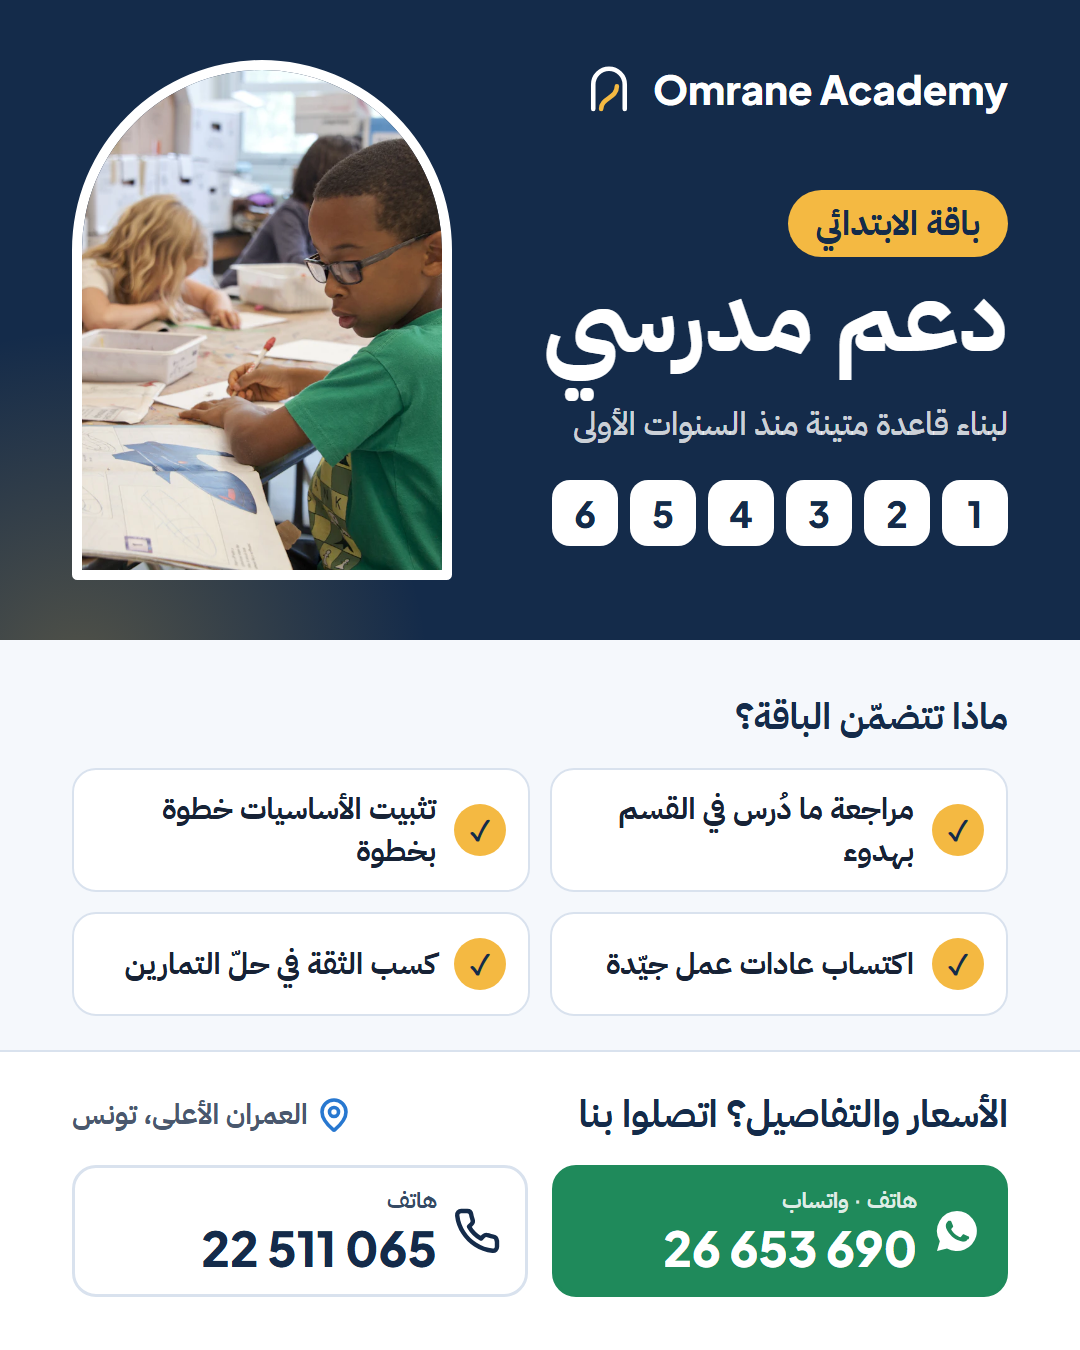
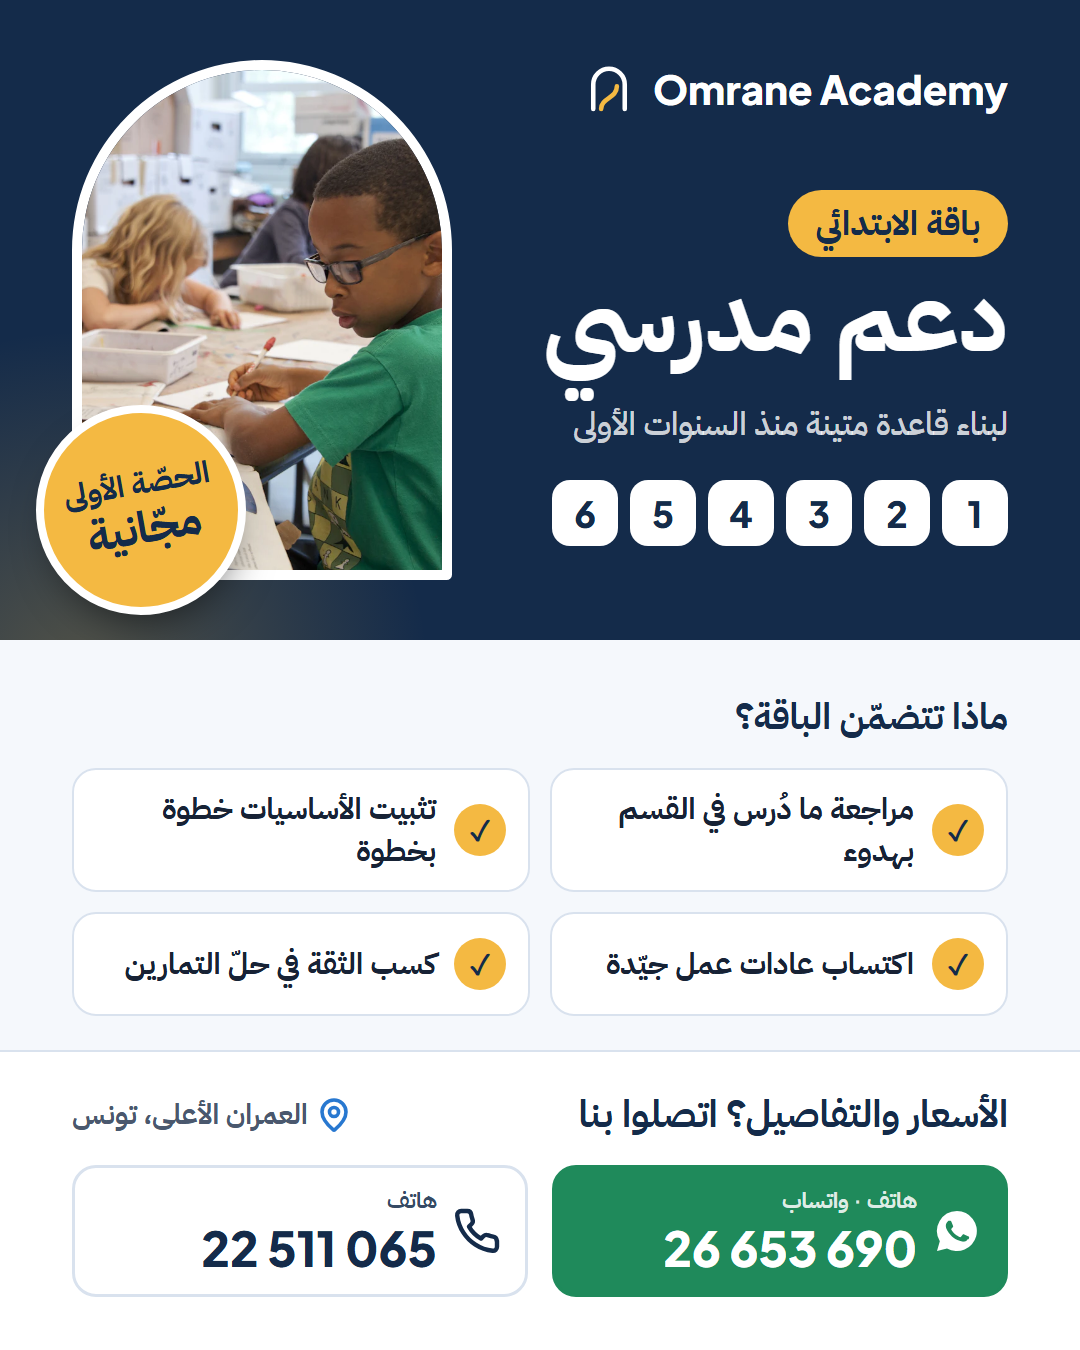
Pack ads: add the free first session and the 4-subjects offer
- "First session free" badge on every pack image and a dedicated offer image
- "4 subjects, the 4th free" image for primaire and collège
- Captions updated with both offers

Changed region(s): [[0.0306, 0.28, 0.2444, 0.4667]]

diff --git a/marketing/packs-ar.html b/marketing/packs-ar.html
@@ -1,7 +1,8 @@
 <!doctype html>
 <!--
   Publicités Facebook « packs » (1080 × 1350 px, 4:5), en arabe.
-  Une image par ancre : #primaire, #college, #info (informatique pour lycéens), #tous (récapitulatif).
+  Une image par ancre : #primaire, #college, #info (informatique pour lycéens), #tous (récapitulatif),
+  #matieres (4 matières, la 4e gratuite), #offre (première séance gratuite — offre confirmée par l'utilisateur le 2026-11-11).
   Export : Chrome headless --window-size=1080,1350 --screenshot "packs-ar.html#primaire" …
   Pas de prix : ils ne sont pas encore fixés → « اتصلوا بنا للأسعار ». Ne rien inventer
   (nombre de séances, matières, taille des groupes) tant que ce n'est pas confirmé.
@@ -71,6 +72,31 @@
       .row.p em { background: var(--gold); color: var(--navy); }
       .row.c em { background: var(--blue); color: #fff; }
       .row.i em { background: var(--green); color: #fff; }
+
+      /* Badge « première séance gratuite » */
+      .free { position: absolute; top: 405px; left: 36px; z-index: 2; width: 210px; height: 210px; border-radius: 50%; display: grid; place-content: center; text-align: center; background: var(--gold); color: var(--navy); border: 8px solid #fff; box-shadow: 0 20px 40px -16px rgb(0 0 0 / 0.55); transform: rotate(-10deg); }
+      .free b { display: block; font-size: 30px; line-height: 1.2; font-weight: 700; }
+      .free span { display: block; font-size: 44px; line-height: 1.2; font-weight: 800; }
+      #tous .free { top: 40px; left: 72px; width: 190px; height: 190px; }
+      #tous .free b { font-size: 27px; }
+      #tous .free span { font-size: 40px; }
+
+      /* Image dédiée à l'offre */
+      .offer .top { height: 1050px; text-align: center; }
+      .offer .gift { position: absolute; top: 190px; left: 50%; z-index: 1; width: 200px; height: 200px; margin-left: -100px; border-radius: 50%; display: grid; place-items: center; background: var(--gold); box-shadow: 0 0 0 22px rgb(244 185 66 / 0.3); }
+      .offer .gift svg { width: 110px; height: 110px; }
+      .offer .kick { position: absolute; top: 440px; inset-inline: 0; z-index: 1; font-size: 36px; font-weight: 700; color: rgb(255 255 255 / 0.8); }
+      .offer .big { position: absolute; top: 500px; inset-inline: 0; z-index: 1; font-size: 120px; line-height: 1.15; font-weight: 800; }
+      .offer .big em { display: block; font-style: normal; color: var(--gold); font-size: 150px; }
+      .offer .tags { position: absolute; top: 880px; inset-inline: 72px; z-index: 1; display: flex; justify-content: center; gap: 16px; }
+      .offer .tags span { padding: 12px 26px; border-radius: 99px; border: 2px solid rgb(255 255 255 / 0.35); font-size: 30px; font-weight: 700; }
+      .offer .cta { height: 300px; }
+      .offer .subjects { position: absolute; top: 180px; inset-inline: 0; z-index: 1; display: flex; justify-content: center; gap: 22px; direction: ltr; }
+      .offer .subjects i { font-style: normal; display: grid; place-items: center; width: 150px; height: 170px; border-radius: 28px; background: #fff; color: var(--navy); font-family: 'Jakarta', sans-serif; font-size: 80px; font-weight: 800; }
+      .offer .subjects i.gift4 { background: var(--gold); position: relative; }
+      .offer .subjects i.gift4 small { position: absolute; bottom: -22px; padding: 4px 18px; border-radius: 99px; background: #fff; color: var(--navy); font-family: 'PlexArabic', sans-serif; font-size: 28px; font-weight: 800; box-shadow: 0 8px 20px -8px rgb(0 0 0 / 0.5); }
+      .offer .big.two { font-size: 96px; }
+      .offer .big.two em { font-size: 110px; }
     </style>
   </head>
   <body>
@@ -79,6 +105,9 @@
         <svg viewBox="0 0 32 32" aria-hidden="true"><path d="M7 28V14a9 9 0 0 1 18 0v14" fill="none" stroke="#fff" stroke-width="2.6" stroke-linecap="round" /><path d="M11.5 28c0-6.5 9-6 9-13" fill="none" stroke="#F4B942" stroke-width="2.6" stroke-linecap="round" /></svg>
         <b>Omrane Academy</b>
       </div>
+    </template>
+    <template id="free">
+      <div class="free"><b>الحصّة الأولى</b><span>مجّانية</span></div>
     </template>
     <template id="cta">
       <div class="cta">
@@ -104,6 +133,7 @@
       <div class="top">
         <div data-use="brand"></div>
         <div class="photo"><img class="arch" src="../public/images/primaire.webp" alt="" /></div>
+        <div data-use="free"></div>
         <p class="badge">باقة الابتدائي</p>
         <p class="title">دعم مدرسي</p>
         <p class="for">لبناء قاعدة متينة منذ السنوات الأولى</p>
@@ -126,6 +156,7 @@
       <div class="top">
         <div data-use="brand"></div>
         <div class="photo"><img class="arch" src="../public/images/college-lycee.webp" alt="" /></div>
+        <div data-use="free"></div>
         <p class="badge">باقة الإعدادي</p>
         <p class="title">دعم مدرسي</p>
         <p class="for">لفهم الدروس والاستعداد للفروض بثقة</p>
@@ -148,6 +179,7 @@
       <div class="top">
         <div data-use="brand"></div>
         <div class="photo"><img class="arch" src="../public/images/informatique.webp" alt="" style="object-position: 70% center" /></div>
+        <div data-use="free"></div>
         <p class="badge">باقة الإعلامية</p>
         <p class="title">للثانوي</p>
         <p class="for">لاكتساب مهارات رقمية تنفعك اليوم وغدًا</p>
@@ -169,6 +201,7 @@
     <section class="ad" id="tous">
       <div class="top">
         <div data-use="brand"></div>
+        <div data-use="free"></div>
         <p class="badge">باقاتنا</p>
         <p class="title">اختاروا الباقة المناسبة لابنكم</p>
       </div>
@@ -180,10 +213,35 @@
       <div data-use="cta"></div>
     </section>
 
+    <!-- ============ عرض: الحصّة الأولى مجّانية ============ -->
+    <section class="ad offer" id="offre" data-ask="احجزوا حصّتكم المجّانية الآن">
+      <div class="top">
+        <div data-use="brand"></div>
+        <div class="gift"><svg viewBox="0 0 24 24" fill="none" stroke="#142B4A" stroke-width="2" stroke-linecap="round" stroke-linejoin="round" aria-hidden="true"><rect x="3" y="8" width="18" height="4" rx="1" /><path d="M12 8v13" /><path d="M19 12v7a2 2 0 0 1-2 2H7a2 2 0 0 1-2-2v-7" /><path d="M7.5 8a2.5 2.5 0 0 1 0-5A4.8 8 0 0 1 12 8a4.8 8 0 0 1 4.5-5 2.5 2.5 0 0 1 0 5" /></svg></div>
+        <p class="kick">عرض خاص · جرّبوا قبل التسجيل</p>
+        <p class="big">الحصّة الأولى<em>مجّانية</em></p>
+        <div class="tags"><span>الابتدائي</span><span>الإعدادي</span><span>الإعلامية للثانوي</span></div>
+      </div>
+      <div data-use="cta"></div>
+    </section>
+
+    <!-- ============ عرض: 4 مواد، الرابعة مجّانية (offre confirmée par l'utilisateur le 2026-11-11) ============ -->
+    <section class="ad offer" id="matieres" data-ask="اتصلوا بنا لمعرفة التفاصيل">
+      <div class="top">
+        <div data-use="brand"></div>
+        <div class="subjects"><i>1</i><i>2</i><i>3</i><i class="gift4">4<small>مجّانًا</small></i></div>
+        <p class="kick">عرض خاص · دعم مدرسي</p>
+        <p class="big two">سجّلوا في 4 مواد<em>والرابعة مجّانية</em></p>
+        <div class="tags"><span>الابتدائي</span><span>الإعدادي <bdi dir="ltr">7 · 8 · 9</bdi></span></div>
+      </div>
+      <div data-use="cta"></div>
+    </section>
+
     <script>
       document.querySelectorAll('[data-use]').forEach((slot) => {
         slot.replaceWith(document.getElementById(slot.dataset.use).content.cloneNode(true))
       })
+      document.querySelectorAll('[data-ask]').forEach((a) => (a.querySelector('.ask p').textContent = a.dataset.ask))
       const id = location.hash.slice(1) || 'primaire'
       ;(document.getElementById(id) || document.getElementById('primaire')).classList.add('show')
     </script>
